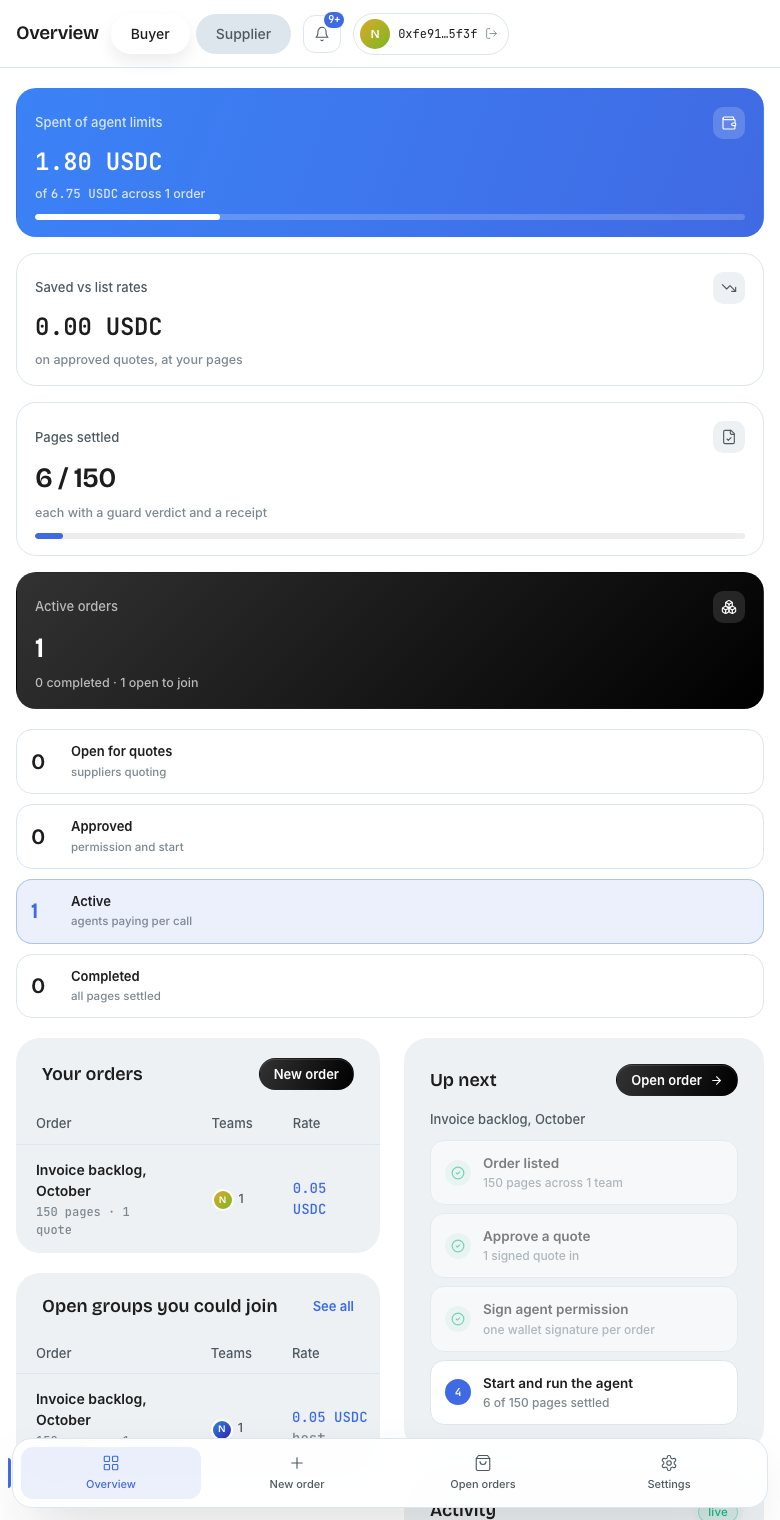
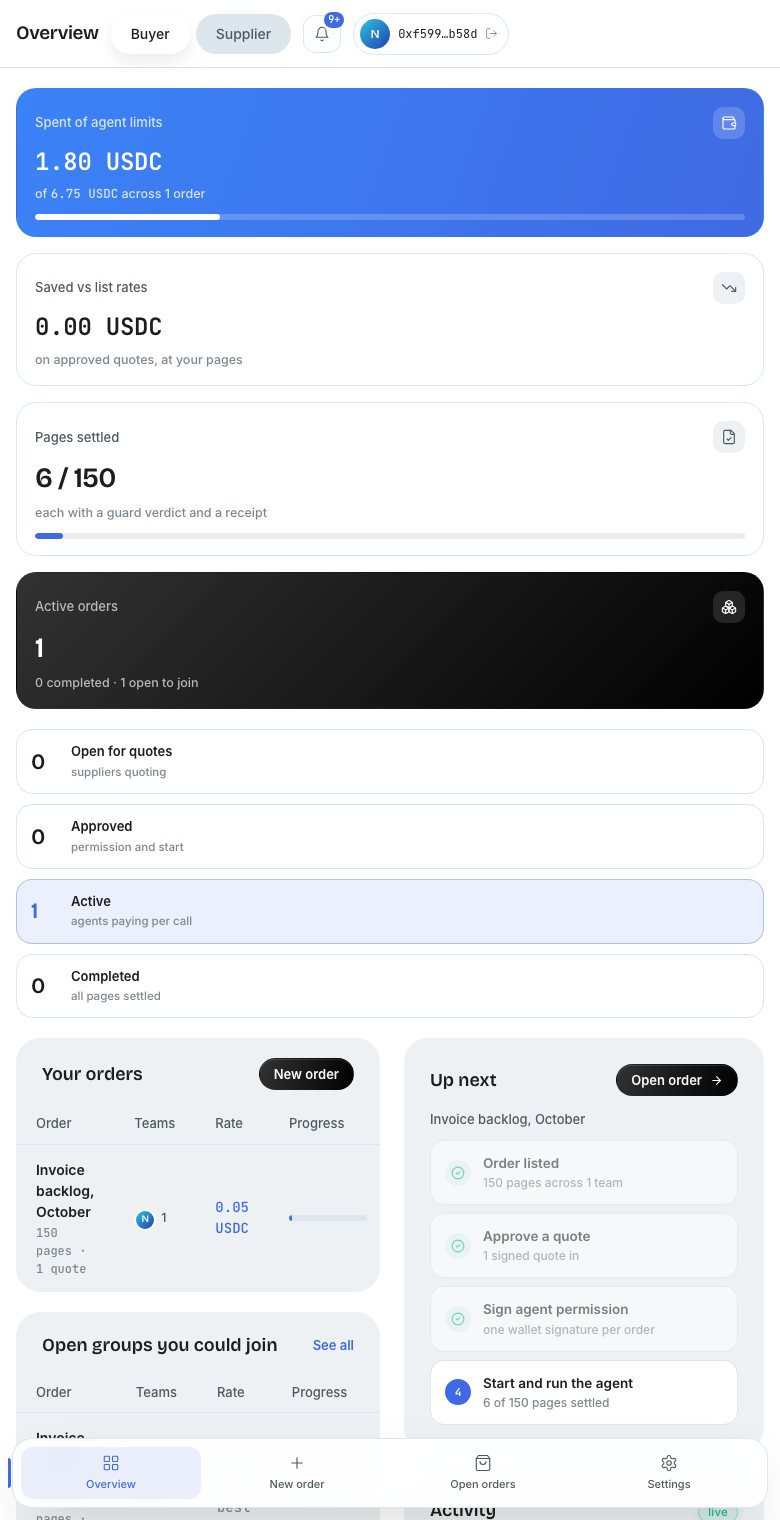
App: tighter orders table, fresh landing screenshots from the v2 shell

diff --git a/src/app/app.css b/src/app/app.css
@@ -142,7 +142,8 @@
 .ap-pipe-step[data-hot=true] .ap-pipe-n{color:var(--fx-indigo)}
 
 /* table polish */
-.ap-table{min-width:760px}
+.ap-table{min-width:640px}
+.ap-row td:last-child{white-space:nowrap}
 .ap-row td{padding:14px 20px;vertical-align:middle}
 .ap-th{padding:10px 20px}
 .ap-prog{display:flex;align-items:center;gap:10px;min-width:150px}
